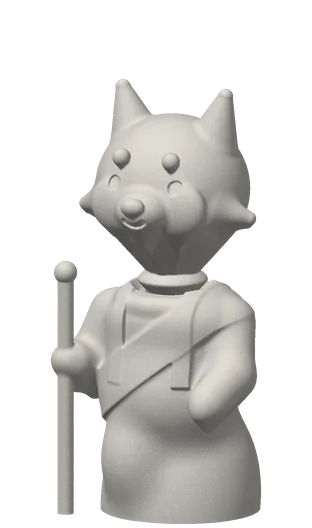
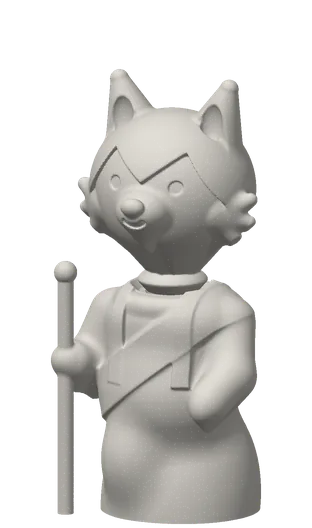
feat: fish, giraffe and jester join; diver, husky and knight reworked (D-031)
26 heads. Card pages show the right height for the taller heads.

Changed region(s): [[0.2308, 0.1212, 0.8365, 0.4848], [0.4904, 0.5152, 0.5481, 0.5455], [0.4327, 0.3333, 0.4904, 0.3636]]

diff --git a/index.html b/index.html
@@ -4,7 +4,7 @@
 <meta charset="utf-8">
 <meta name="viewport" content="width=device-width, initial-scale=1">
 <title>Quiet Company | desk buddies that listen</title>
-<meta name="description" content="Desk buddies that listen. One calm monk, three poses, twenty-three oversized heads that swap. Original 3D-printed figures, printed to order.">
+<meta name="description" content="Desk buddies that listen. One calm monk, three poses, twenty-six oversized heads that swap. Original 3D-printed figures, printed to order.">
 <meta name="theme-color" content="#ffffff">
 <link rel="icon" href="assets/favicon.svg" type="image/svg+xml">
 <link rel="preconnect" href="https://fonts.googleapis.com">
@@ -40,7 +40,7 @@
   <section class="hero">
     <p class="eyebrow">Quiet Company</p>
     <h1>Good listeners.</h1>
-    <p class="lede">Tell your buddy the problem out loud. You will often have the answer before you finish explaining. One calm monk, three poses, twenty-three oversized heads that lift off and swap.</p>
+    <p class="lede">Tell your buddy the problem out loud. You will often have the answer before you finish explaining. One calm monk, three poses, twenty-six oversized heads that lift off and swap.</p>
     <div class="rule" aria-hidden="true"></div>
     <p><a class="button" href="quiz.html">Find your buddy</a></p>
     <p class="availability">Seven questions, about a minute. Shop opening soon. <a href="credits.html#contact">Questions</a>.</p>
@@ -56,7 +56,7 @@
 
   <section id="heads" class="section">
     <div class="section-head">
-      <h2>Twenty-three heads</h2>
+      <h2>Twenty-six heads</h2>
       <p>All original, all a size too big for the body. Pick one, or let the quiz pick.</p>
     </div>
     <div class="tiles" id="js-gallery"></div>

diff --git a/assets/buddies.js b/assets/buddies.js
@@ -64,7 +64,13 @@
     monkey:    { name: "The Monkey",    t: [2, 1, -1, 2],    tag: "For the one whose mind has already left the room.",
                  practice: "When the mind swings off, say 'thinking' and come back. No scolding. Monkeys hate scolding." },
     octopus:   { name: "The Octopus",   t: [1, 0, -2, 2],    tag: "For the one doing eight things, six of them well.",
-                 practice: "Put seven arms down. Give the eighth thing everything." }
+                 practice: "Put seven arms down. Give the eighth thing everything." },
+    fish:      { name: "The Fish",      t: [-1, 2, 1, 1],    tag: "For the one who goes where the group goes, and is happy there.",
+                 practice: "Stop swimming for one breath. Notice the water is still holding you up." },
+    giraffe:   { name: "The Giraffe",   t: [0, -1, 1, -2],   tag: "For the one who saw it coming from a long way off.",
+                 practice: "Bring your head down to where everyone else is for one conversation today." },
+    jester:    { name: "The Jester",    t: [0, 2, -1, 2],    tag: "For the one who says the true thing as a joke.",
+                 practice: "Say one true thing today without the joke. The bells can stay on." }
   };
 
   // Each answer nudges the traits: [energy, company, heart, wildness].

diff --git a/assets/site.js b/assets/site.js
@@ -4,6 +4,8 @@
 (function () {
   "use strict";
   var S = window.QUIET_COMPANY;
+  // Seated height in mm for the heads that stand well above the rest; standing and walking add 25.
+  var TALL_MM = { alien: 128, jester: 131, bunny: 140, wizard: 140, giraffe: 148 };
   var HEAD_IDS = Object.keys(S.HEADS), BODY_IDS = Object.keys(S.BODIES);
 
   function el(tag, cls, text) {
@@ -81,7 +83,7 @@
 
     copy.appendChild(el("h2", null, "Details"));
     var specs = el("ul", "specs");
-    [["Height", body === "seated" ? "about 11 cm" : "about 14 cm"], ["Material", "Matte PLA, printed to order"],
+    [["Height", "about " + Math.round(((TALL_MM[head] || 113) + (body === "seated" ? 0 : 25)) / 10) + " cm"], ["Material", "Matte PLA, printed to order"],
      ["Finishes", "Still / Shadow / Becoming"], ["Head", "Arrives separate. Push it on; it fits all three poses"]].forEach(function (r) {
       var li = el("li"); li.appendChild(el("span", null, r[0])); li.appendChild(el("span", null, r[1])); specs.appendChild(li);
     });

diff --git a/credits.html b/credits.html
@@ -39,7 +39,7 @@
 
   <h2 id="models">Models</h2>
   <p>Original 3D models are licensed under <a href="https://creativecommons.org/licenses/by-nc/4.0/">CC BY-NC 4.0</a>. Print, remix, and share for yourself, with credit. No commercial selling.</p>
-  <p>The line-up is one monk body in three poses and 23 heads, all original and all by Quiet Company. They were generated from code with AI assistance; no scan, third-party model or existing character was used. The full scope is in the repository's <a href="LICENSE">LICENSE</a> file.</p>
+  <p>The line-up is one monk body in three poses and 26 heads, all original and all by Quiet Company. They were generated from code with AI assistance; no scan, third-party model or existing character was used. The full scope is in the repository's <a href="LICENSE">LICENSE</a> file.</p>
 
   <h2>Cards, brand, photography</h2>
   <p>All rights reserved. The insight cards, the quiz and its wording, card art, brand, renders and photographs are not covered by the model licence.</p>

diff --git a/README.md b/README.md
@@ -2,7 +2,7 @@
 
 Original 3D-printable figurines and the brand kit behind them. The idea: small, wry sculptures that borrow the calm of Buddhist iconography without borrowing anyone's copyrighted characters.
 
-v1 is one calm monk in three poses (sitting, standing, walking) and 23 original heads that lift off and swap: archetypes like the robot and the wizard, and animals like the frog and the owl. A short quiz picks one for you.
+v1 is one calm monk in three poses (sitting, standing, walking) and 26 original heads that lift off and swap: archetypes like the robot and the wizard, and animals like the frog and the owl. A short quiz picks one for you.
 
 This repository is the public half of the project. The business repo is private.
 
